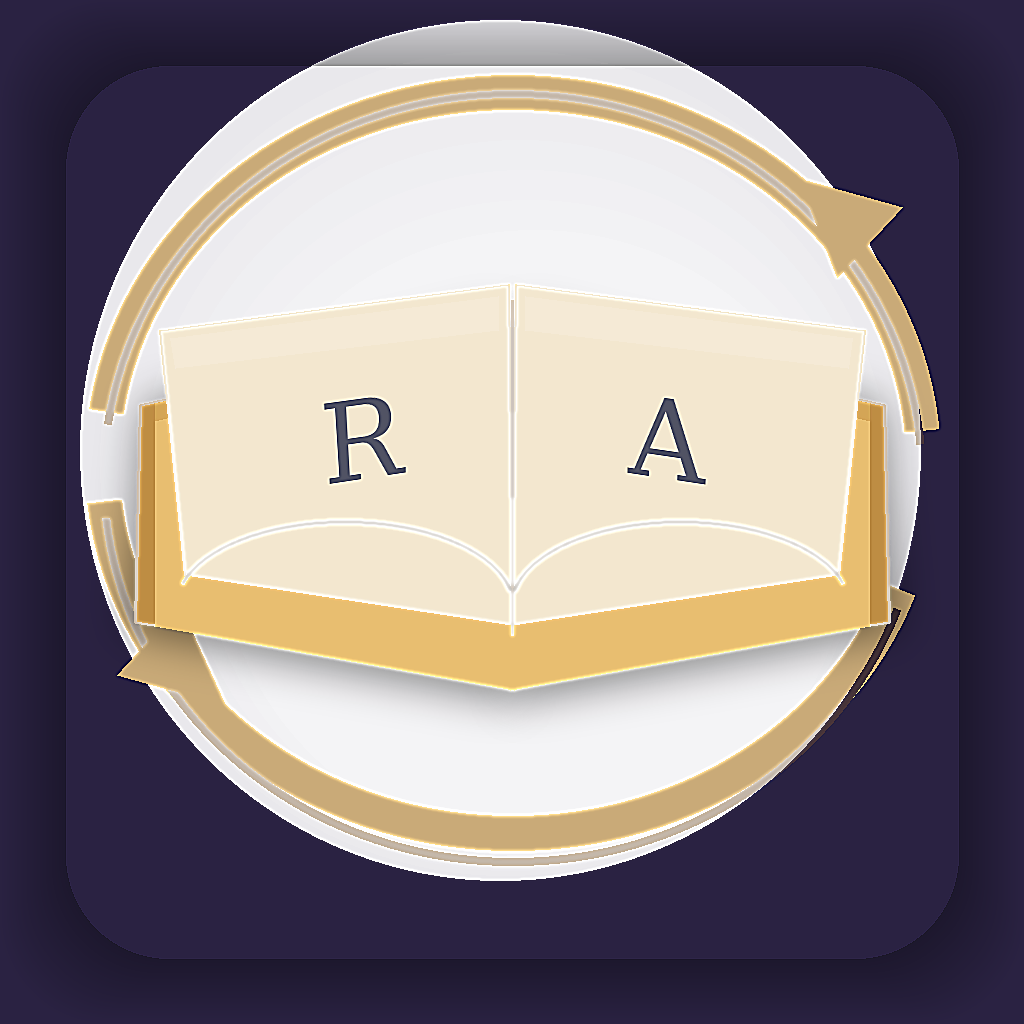
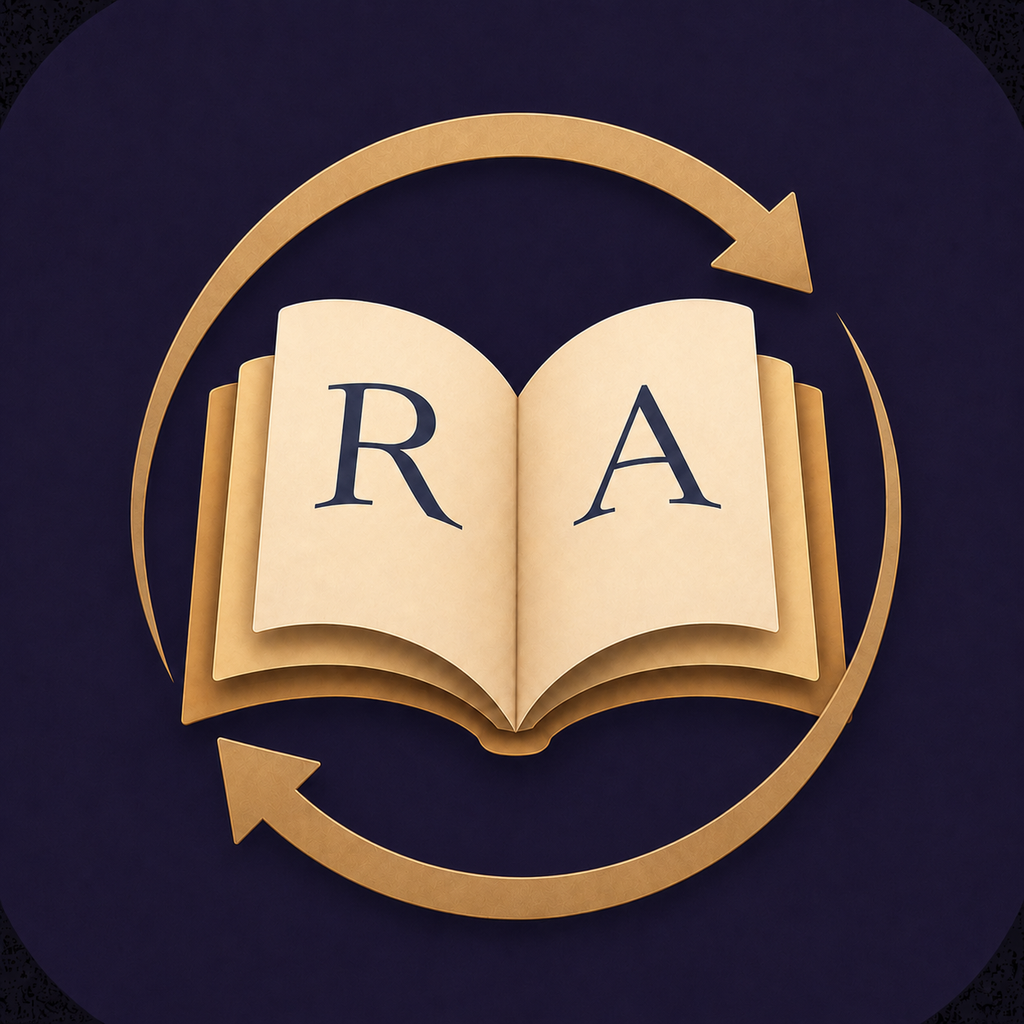
readarc_sprint28b_canonical_icon_update

diff --git a/apps/flutter_client/lib/services/storage_service.dart b/apps/flutter_client/lib/services/storage_service.dart
@@ -202,6 +202,42 @@ class StorageService {
   }
 
 
+  /// Creates a fresh local device identity when this installation was previously
+  /// revoked and the user scans a new owner QR code. Reusing the old deviceId
+  /// would immediately match the owner's revocation tombstone again, so a
+  /// reconnected phone/tablet must come back as a new trusted device. The old
+  /// revoked record is preserved for audit/history.
+  Future<LibraryManifest> rotateCurrentDeviceIdentityForPairing() async {
+    final manifest = await loadManifest();
+    if (!manifest.isCurrentDeviceRevoked) return manifest;
+
+    final newDeviceId = 'device-${_uuid.v4()}';
+    final newKeyPair = await _newDeviceSigningKeyPair();
+    final now = DateTime.now().toUtc();
+    final devices = [
+      ...manifest.trustedDevices,
+      TrustedDeviceRecord(
+        deviceId: newDeviceId,
+        name: manifest.deviceName,
+        role: 'device',
+        publicKey: newKeyPair.publicKey,
+        keyFingerprint: _fingerprint(newKeyPair.publicKey),
+        addedAt: now,
+        lastSeenAt: now,
+      ),
+    ];
+
+    final updated = manifest.copyWith(
+      deviceId: newDeviceId,
+      deviceSigningPublicKey: newKeyPair.publicKey,
+      deviceSigningPrivateKey: newKeyPair.privateKey,
+      trustedDevices: devices,
+    );
+    await saveManifest(updated);
+    return updated;
+  }
+
+
 
   Future<LibraryManifest> revokeTrustedDevice(String deviceId, {String reason = 'revoked_by_owner'}) async {
     final manifest = await loadManifest();

diff --git a/apps/flutter_client/lib/services/sync/sync_service.dart b/apps/flutter_client/lib/services/sync/sync_service.dart
@@ -561,7 +561,12 @@ class SyncService {
     _validateEndpointForPairing(effectiveSettings);
     final relayUrl = effectiveSettings.effectiveRelayUrl;
 
-    final local = await _storage.loadManifest();
+    var local = await _storage.loadManifest();
+    if (local.isCurrentDeviceRevoked) {
+      local = await _storage.rotateCurrentDeviceIdentityForPairing();
+      _appendLog('Создана новая идентичность устройства для повторного подключения после отзыва доступа.');
+    }
+
     final uri = _buildEndpointUri(relayUrl, '/pairing/claim');
     Map<String, dynamic>? response;
     Object? claimError;

diff --git a/docs/sprint_28a_icon_reconnect_hotfix_ru.md b/docs/sprint_28a_icon_reconnect_hotfix_ru.md
@@ -1,0 +1,68 @@
+# Sprint 28a — hotfix иконки и повторного подключения после отзыва
+
+## Что исправлено
+
+### 1. Иконка ReadArc
+
+Возвращена утверждённая композиция и палитра иконки: глубокий индиго, тёплое золото, кремовые страницы, круговые стрелки вокруг открытой книги.
+
+Изменение сделано только в нужном месте: буквы `R` и `A` больше не выглядят плоской надписью поверх иконки. Они перерисованы с перспективным искажением по плоскости левой и правой страницы, чтобы восприниматься как напечатанные на листах книги.
+
+### 2. Повторное подключение отозванного устройства
+
+Проблема: если Android был отозван владельцем, при повторном сканировании свежего QR приложение снова получало состояние `Доступ отозван`.
+
+Причина: Android сохранял прежний `deviceId`. Для владельца этот `deviceId` уже имел revocation tombstone. Даже после нового QR старый идентификатор снова совпадал с отозванной записью.
+
+Исправление: если текущее устройство локально находится в состоянии `revoked` и пользователь сканирует новый QR владельца, ReadArc создаёт для этой установки новую device identity:
+
+- новый `deviceId`;
+- новый ключ подписи устройства;
+- новый fingerprint;
+- старую отозванную запись оставляет в истории.
+
+Так повторное подключение становится новым доверием, а не попыткой воскресить старый отозванный идентификатор.
+
+## Обновлять relay на сервере?
+
+Если на сервере уже установлен Sprint 28 relay, для Sprint 28a обновлять relay не обязательно: изменение повторного подключения сделано на клиенте.
+
+Если Sprint 28 relay ещё не был развернут, сервер нужно обновить, потому что Sprint 28 добавлял relay-событие `pairing_claimed`.
+
+Проверка сервера:
+
+```bash
+curl https://relay.readarc.ru/health
+```
+
+## Проверки
+
+Минимально через GitHub Actions достаточно дождаться зелёной сборки.
+
+Локально при необходимости:
+
+```bash
+cd apps/flutter_client
+flutter pub get
+flutter test
+```
+
+Полная проверка:
+
+```bash
+cd apps/flutter_client
+flutter clean
+flutter pub get
+flutter analyze
+flutter test
+```
+
+## Ручная проверка
+
+1. Установить Sprint 28a на Mac и Android.
+2. На Mac открыть `Синхронизация`.
+3. Отозвать Android.
+4. На Android оставить приложение установленным, не удалять данные.
+5. На Mac создать новый QR.
+6. На Android отсканировать QR.
+7. Ожидаемый результат: Android подключается заново; в списке доверенных устройств появляется новая запись Android с новым fingerprint/deviceId, старая отозванная запись остаётся в истории.

diff --git a/docs/sprint_28b_canonical_icon_update_ru.md b/docs/sprint_28b_canonical_icon_update_ru.md
@@ -1,0 +1,29 @@
+# Sprint 28b — каноническая иконка ReadArc
+
+## Что изменено
+
+Обновлены все committed PNG-иконки ReadArc на канонический вариант:
+
+- `assets/app_icon/readarc_icon_1024.png`
+- `assets/app_icon/android/ic_launcher_*.png`
+- `assets/app_icon/macos/app_icon_*.png`
+- `apps/flutter_client/assets/brand/readarc_icon_1024.png`
+- `apps/flutter_client/assets/brand/readarc_icon_128.png`
+
+Сохранены утверждённые композиция и палитра ReadArc: глубокий индиго, тёплое золото, кремовая бумага, чернильно-синие буквы.
+
+Буквы `R` и `A` подняты чуть выше и сильнее вписаны в перспективу страниц.
+
+## Серверный relay
+
+Обновлять relay на сервере не нужно: это только замена графических assets приложения.
+
+## Проверка
+
+После сборки проверить:
+
+1. Android launcher icon.
+2. macOS app icon в Finder/Dock.
+3. Иконку ReadArc внутри приложения, если она отображается на экранах.
+
+Если ОС показывает старую иконку, это может быть системный кэш. На Android иногда помогает установка новой версии поверх или очистка кэша лаунчера, на macOS — перезапуск Dock/Finder.
